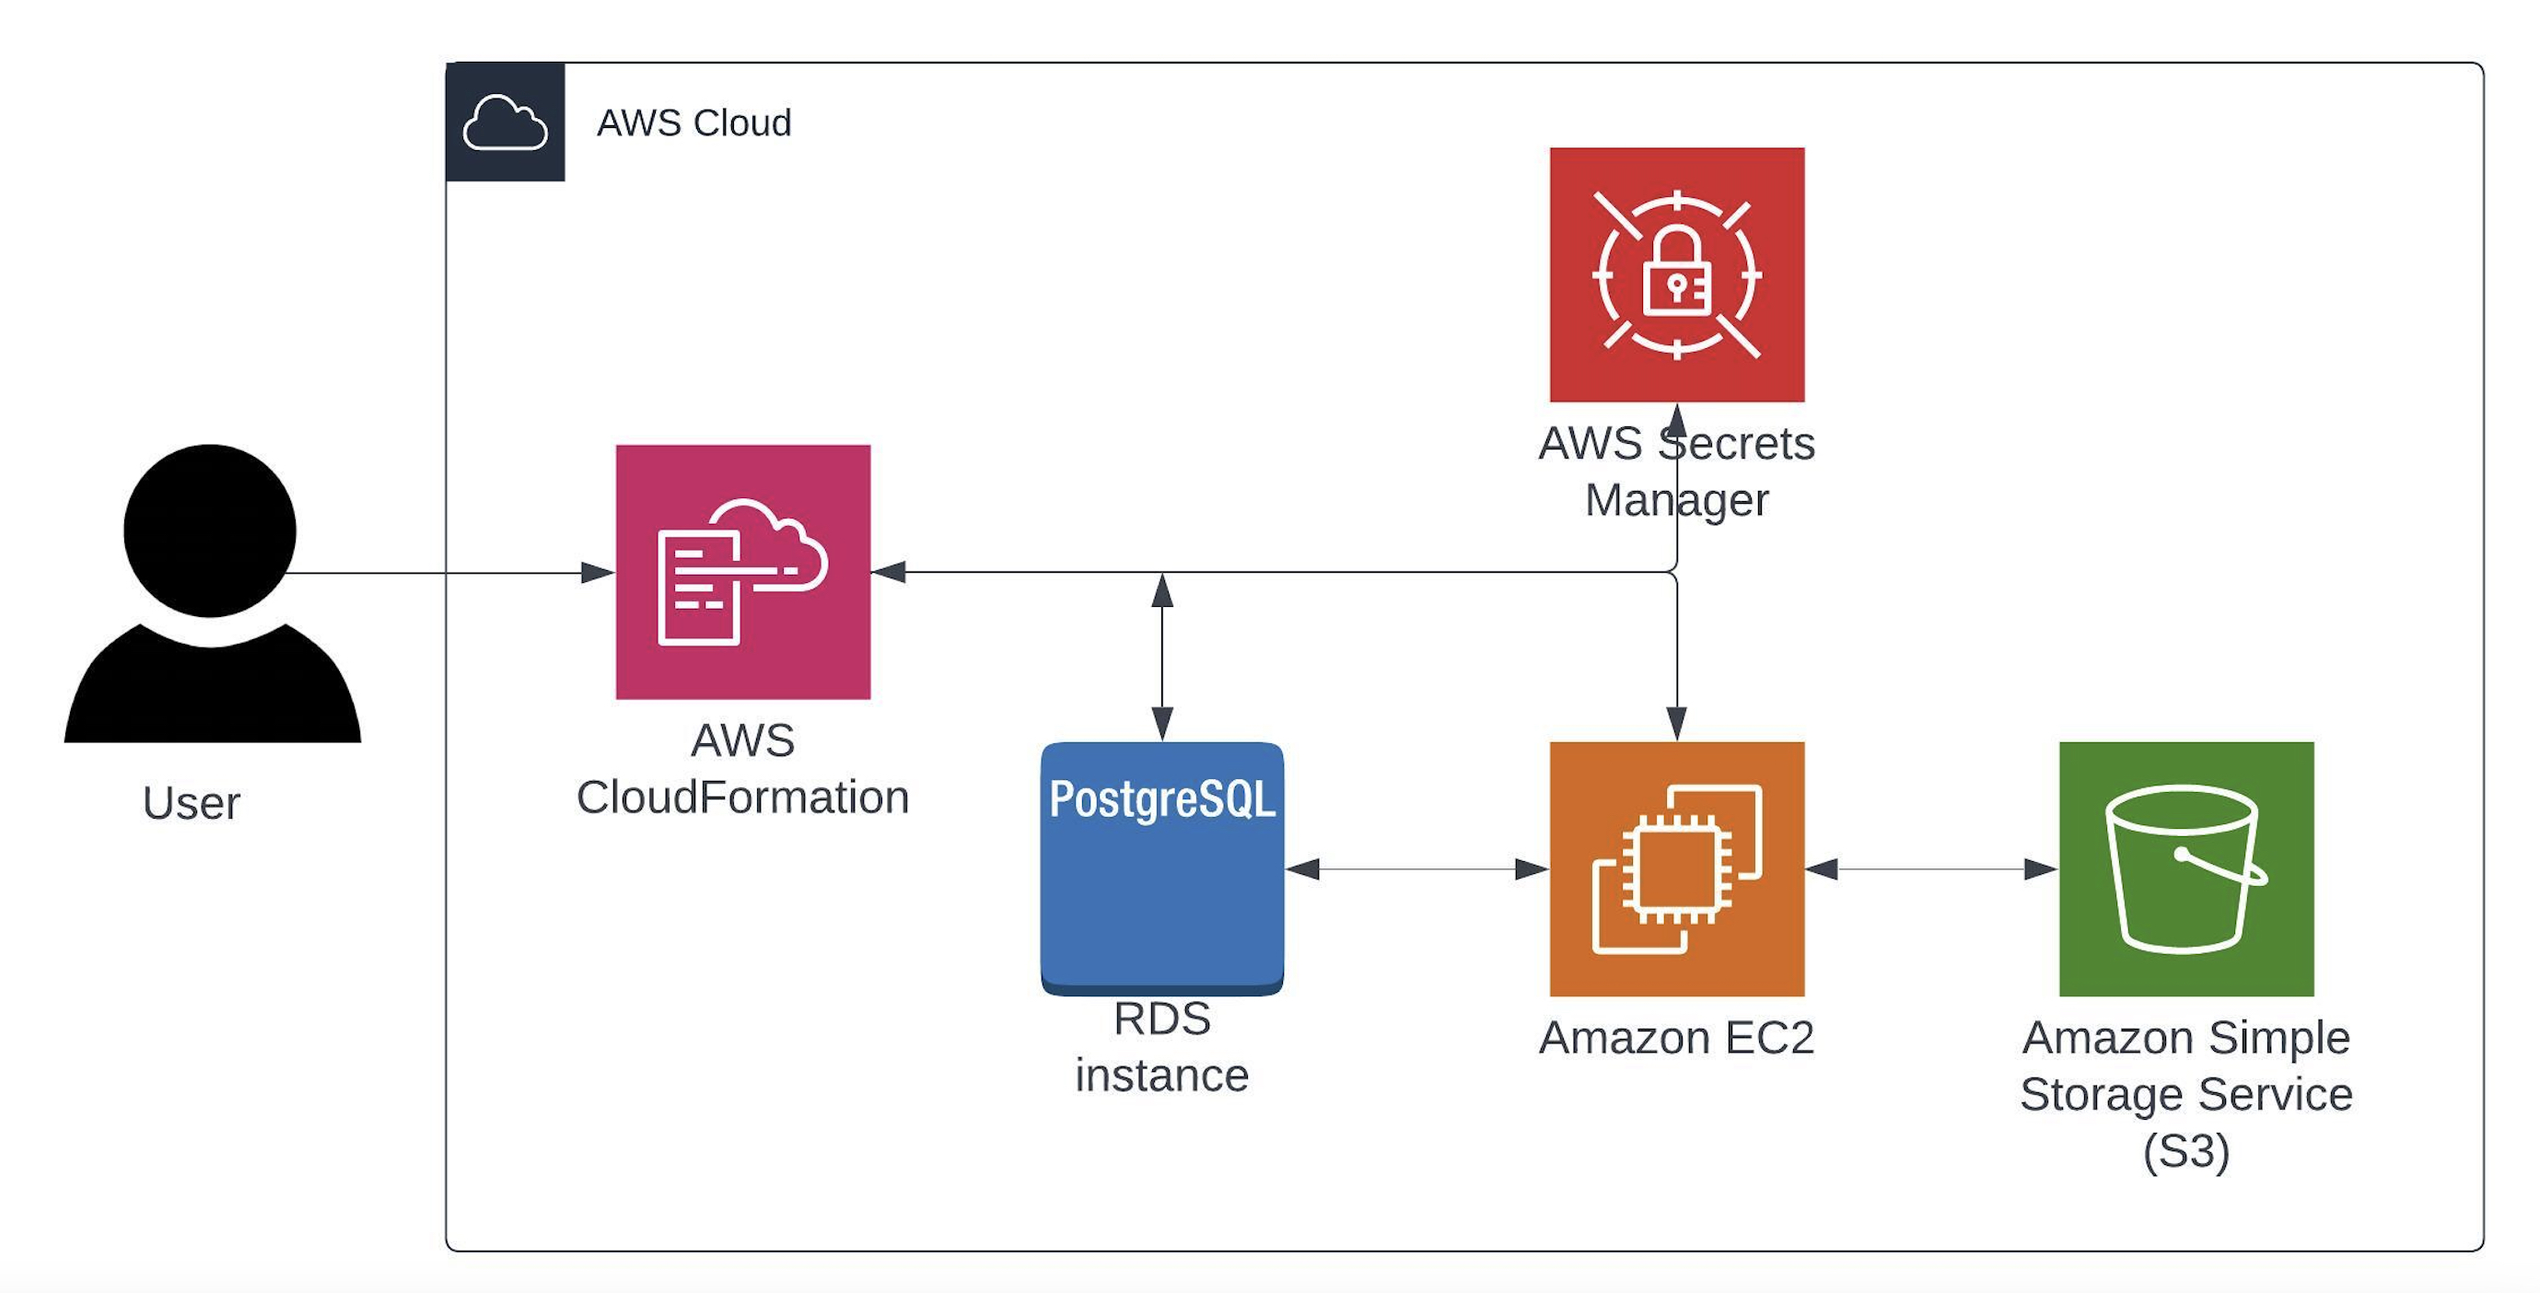
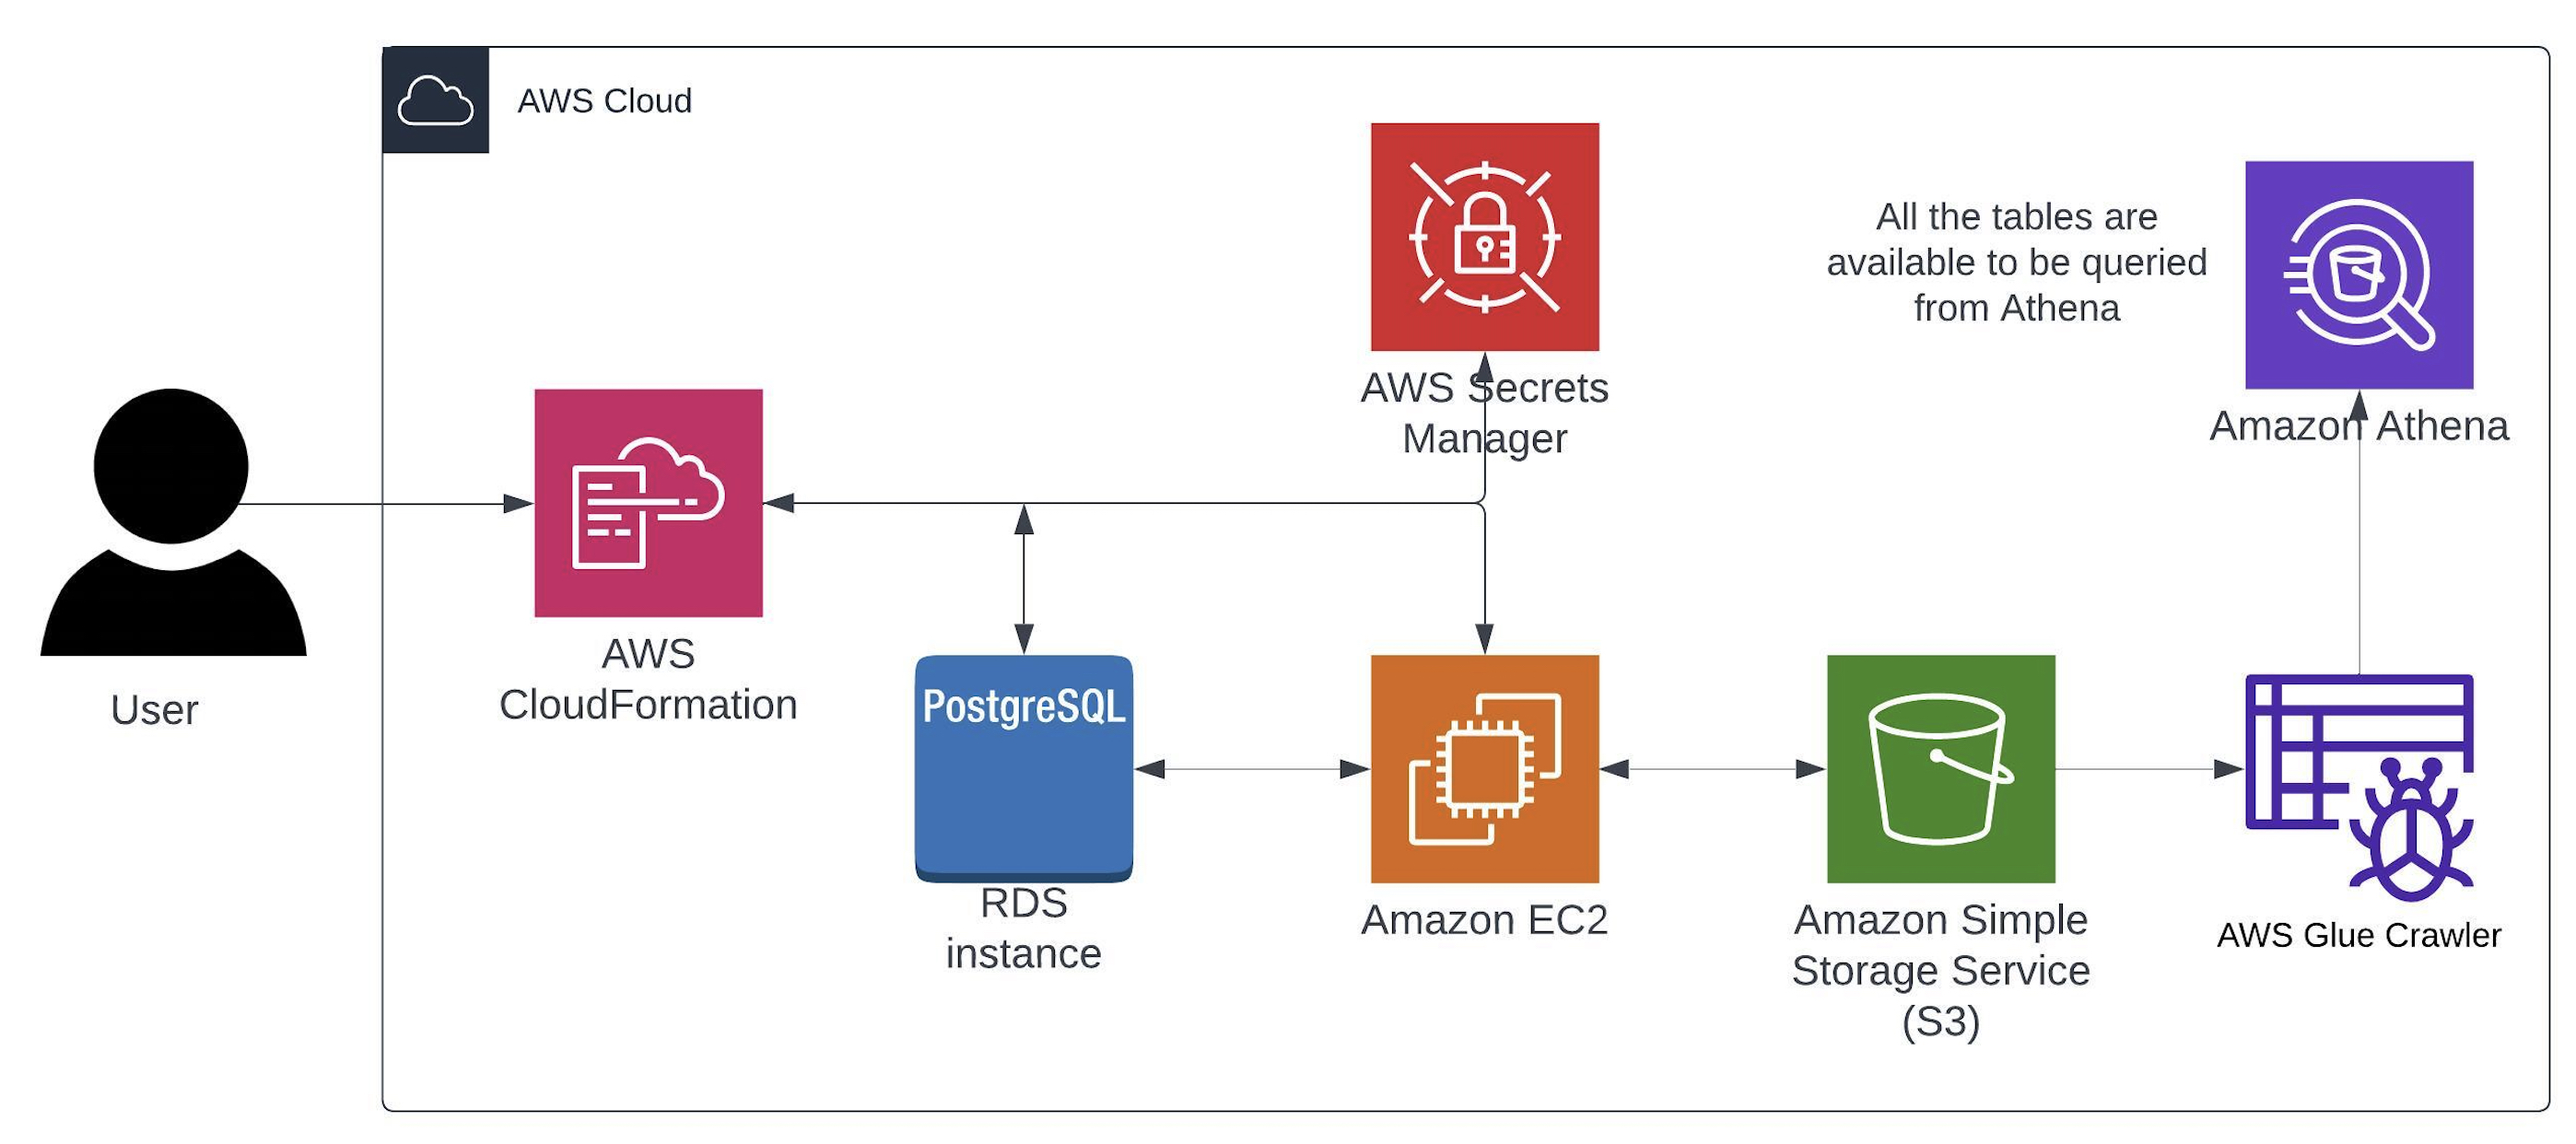
added glue db/crawler, modified readme and config files.

diff --git a/cdk_templates/glue_crawler_stack.py b/cdk_templates/glue_crawler_stack.py
@@ -1,0 +1,45 @@
+from aws_cdk import (
+    Stack,
+    CfnOutput,
+    aws_glue as glue,
+    aws_iam as iam,
+)
+from constructs import Construct
+import os
+
+class GlueStack(Stack):
+
+    def __init__(self, scope: Construct, id: str, **kwargs) -> None:
+        super().__init__(scope, id, **kwargs)
+
+        # Create the UKBB database
+        createUKBBDB = glue.CfnDatabase(self, "MyCfnDatabase",
+                            catalog_id=os.environ.get("AccountId"),
+                            database_input=glue.CfnDatabase.DatabaseInputProperty(
+                                description="This database will consist of harmonized tables of UKBB Data Basket",
+                                name=os.environ.get("UKBBGlueDBName"),
+                            )
+                        )
+
+        # Create Role and assign policies
+        glue_crawler_role = iam.Role(self, 'glue_crawler_role',
+            role_name="UKBBCrawlerJobRole",
+            assumed_by=iam.ServicePrincipal('glue.amazonaws.com'),
+            managed_policies=[iam.ManagedPolicy.from_aws_managed_policy_name("service-role/AWSGlueServiceRole")],
+        )
+
+        statement = iam.PolicyStatement(actions=["s3:*"],
+                                          resources=["arn:aws:s3:::%s/*" % os.environ.get('S3BasketBucketName')])
+        glue_crawler_role.add_to_policy(statement)
+
+        # Create Glue Crawler
+        glue_crawler_ukbb_tables = glue.CfnCrawler(
+            self, 'glue_crawler_ukbb_tables',
+            database_name=os.environ.get("UKBBGlueDBName"),
+            description="This crawler will create the UKBB tables from Data basket.",
+            name="glue_crawler_ukbb_basket_tables",
+            role=glue_crawler_role.role_arn,
+            targets={
+                "s3Targets": [{"path": "s3://%s/rds-parquet-exports/" % os.environ.get('S3BasketBucketName')}]
+            },
+        )

diff --git a/app_glue.py b/app_glue.py
@@ -1,7 +1,7 @@
 #!/usr/bin/env python3
 from aws_cdk import App, Environment
 import os
-from cdk_templates.ec2_instance_stack import EC2InstanceStack
+from cdk_templates.glue_crawler_stack import GlueStack
 import ast
 
 # Define your account id to make import vpc work
@@ -10,12 +10,12 @@ env_cn = Environment(account=os.environ.get("AccountId"), region=os.environ.get(
 input_tags = ast.literal_eval(os.environ.get("Tags"))
 
 # Deploy EC2 instance .
-ec2_app = App()
-input_tags['BillingService'] = 'EC2'
-ukbb_ec2_stack = EC2InstanceStack(ec2_app, os.environ.get("EC2StackName"), env=env_cn,
-                                            description="This stack will deploy the EC2 Instance and setup UKBB repo.",
+glue_app = App()
+input_tags['BillingService'] = 'Glue'
+ukbb_glue_stack = GlueStack(glue_app, os.environ.get("GlueStackName"), env=env_cn,
+                                            description="This stack will deploy the Glue Crawler and Database.",
                                             tags=input_tags)
 
-ec2_app.synth()
+glue_app.synth()
 
 

diff --git a/cdk_templates/ec2_instance_stack.py b/cdk_templates/ec2_instance_stack.py
@@ -38,7 +38,9 @@ class EC2InstanceStack(Stack):
                                          max_session_duration=Duration.seconds(43100),
                                          managed_policies=[
                                              iam.ManagedPolicy.from_aws_managed_policy_name(
-                                                 "AmazonSSMManagedInstanceCore")
+                                                 "AmazonSSMManagedInstanceCore"),
+                                             iam.ManagedPolicy.from_aws_managed_policy_name(
+                                                 'service-role/AWSGlueServiceRole')
                                          ],
                                          )
 

diff --git a/README.md b/README.md
@@ -34,6 +34,7 @@ This will perform steps in following order:
     The harmonization process uses aws_s3 package developed by AWS for loading csv files data directly onto RDS tables. For this process to work, it needs 3 keys: Access Key, Secret Access key and Session Token. Hence, we need a user which will assume role of the EC2 instance and get those 3 things generated to be used further.
   - Create EC2 Instance and get the packages installed, UKBB repo downloaded from github as part of bootstrapping (ukbb-harmonization/cdk_templates/user_data.sh).
   - Bootstrapping will also run maven build of the java code and create the jar which is actually main code for conversion/harmonization.
+  - We also create Athena/Glue DB "ukbb_db" (name can be changed from deploy_config.env) and a Glue Crawler which will create Athena tables on top of all the final parquet files.
 
 Now you are all set to run the processes.
 
@@ -111,17 +112,16 @@ Once these are downloaded, push/upload these files to S3 bucket.
     - Once data is loaded in RDS Instance, its time for us to get exports of each table into parquet format.
     - This is done by running : /ukbb-harmonization/clin_db_harmonization/scripts/run_parquet_exports.py . Its part of wrapper itself and will generate corresponding parquet files.
 
-    You can now move these parquet files to s3://<YOUR_S3_BUCKET>s/ukbb/ and rerun Glue crawler: ukbb-clindb-crawler which will update the UKBB database on Athena with new table schemas.
+    - Once parquet files are available, it will trigger the Glue crawler and all tables will be available in Athena.
 
-    This step might take around 9-10 hours.
+    This step might take around 10-12 hours depending upon the number of patients being loaded.
 
 
 ## Cleanup
 
-Confirm if all the RDS tables are loaded and available in parquet format on S3.
-If yes, now you are good to delete all the 3 stacks from CloudFormation UI and just use S3 files as you no longer need RDS instance.
+Confirm if all the RDS tables are loaded and available in parquet format on S3 and corresponding Glue Tables are queryable.
+If yes, now you are good to delete all the 3 stacks from CloudFormation UI (except for Glue Stack) and just use S3 files as you no longer need RDS instance.
 This will save you some costs on RDS and EC2 instances.
-You can create Athena tables on top of it if needed.
 
 ----
 ## Contributors
